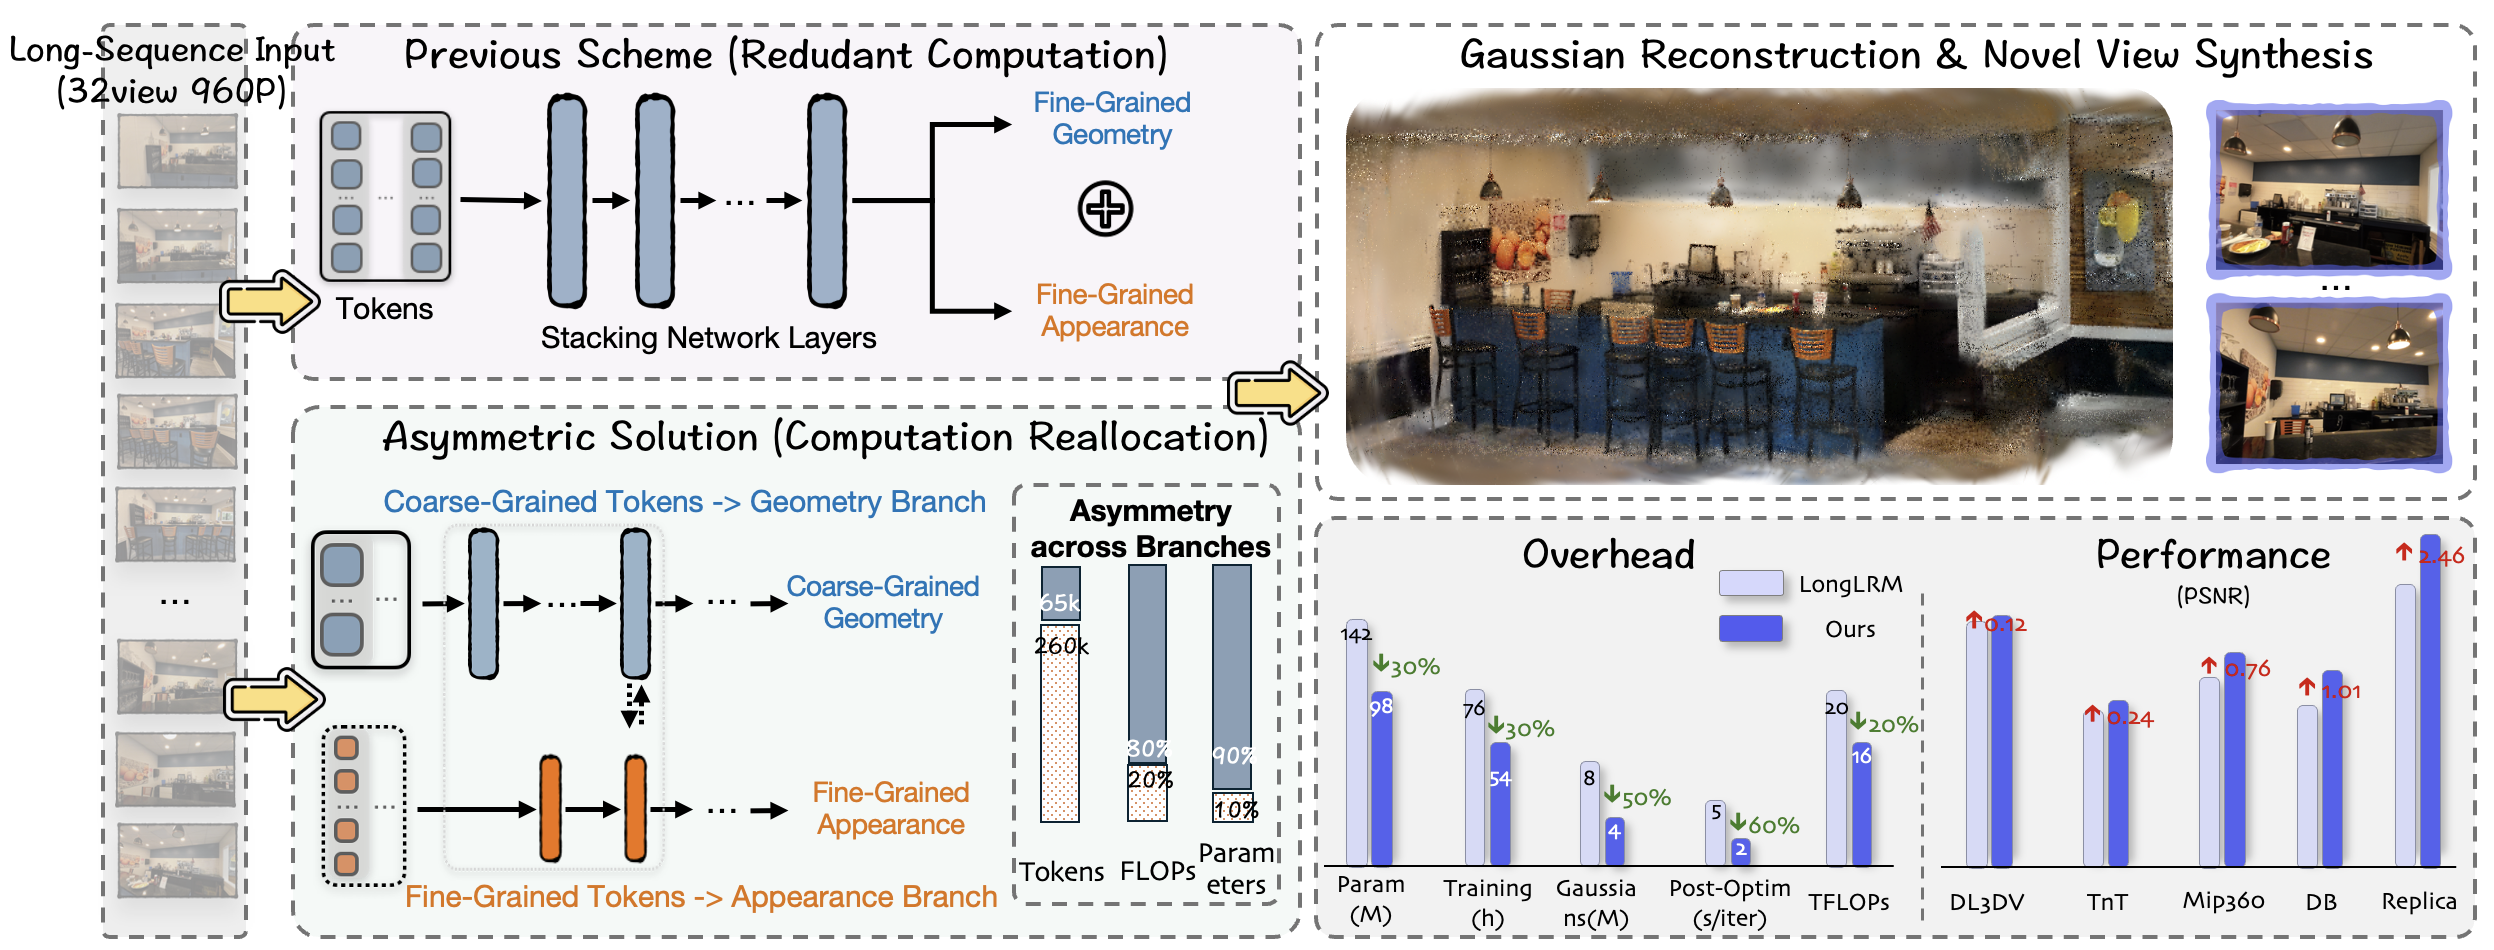
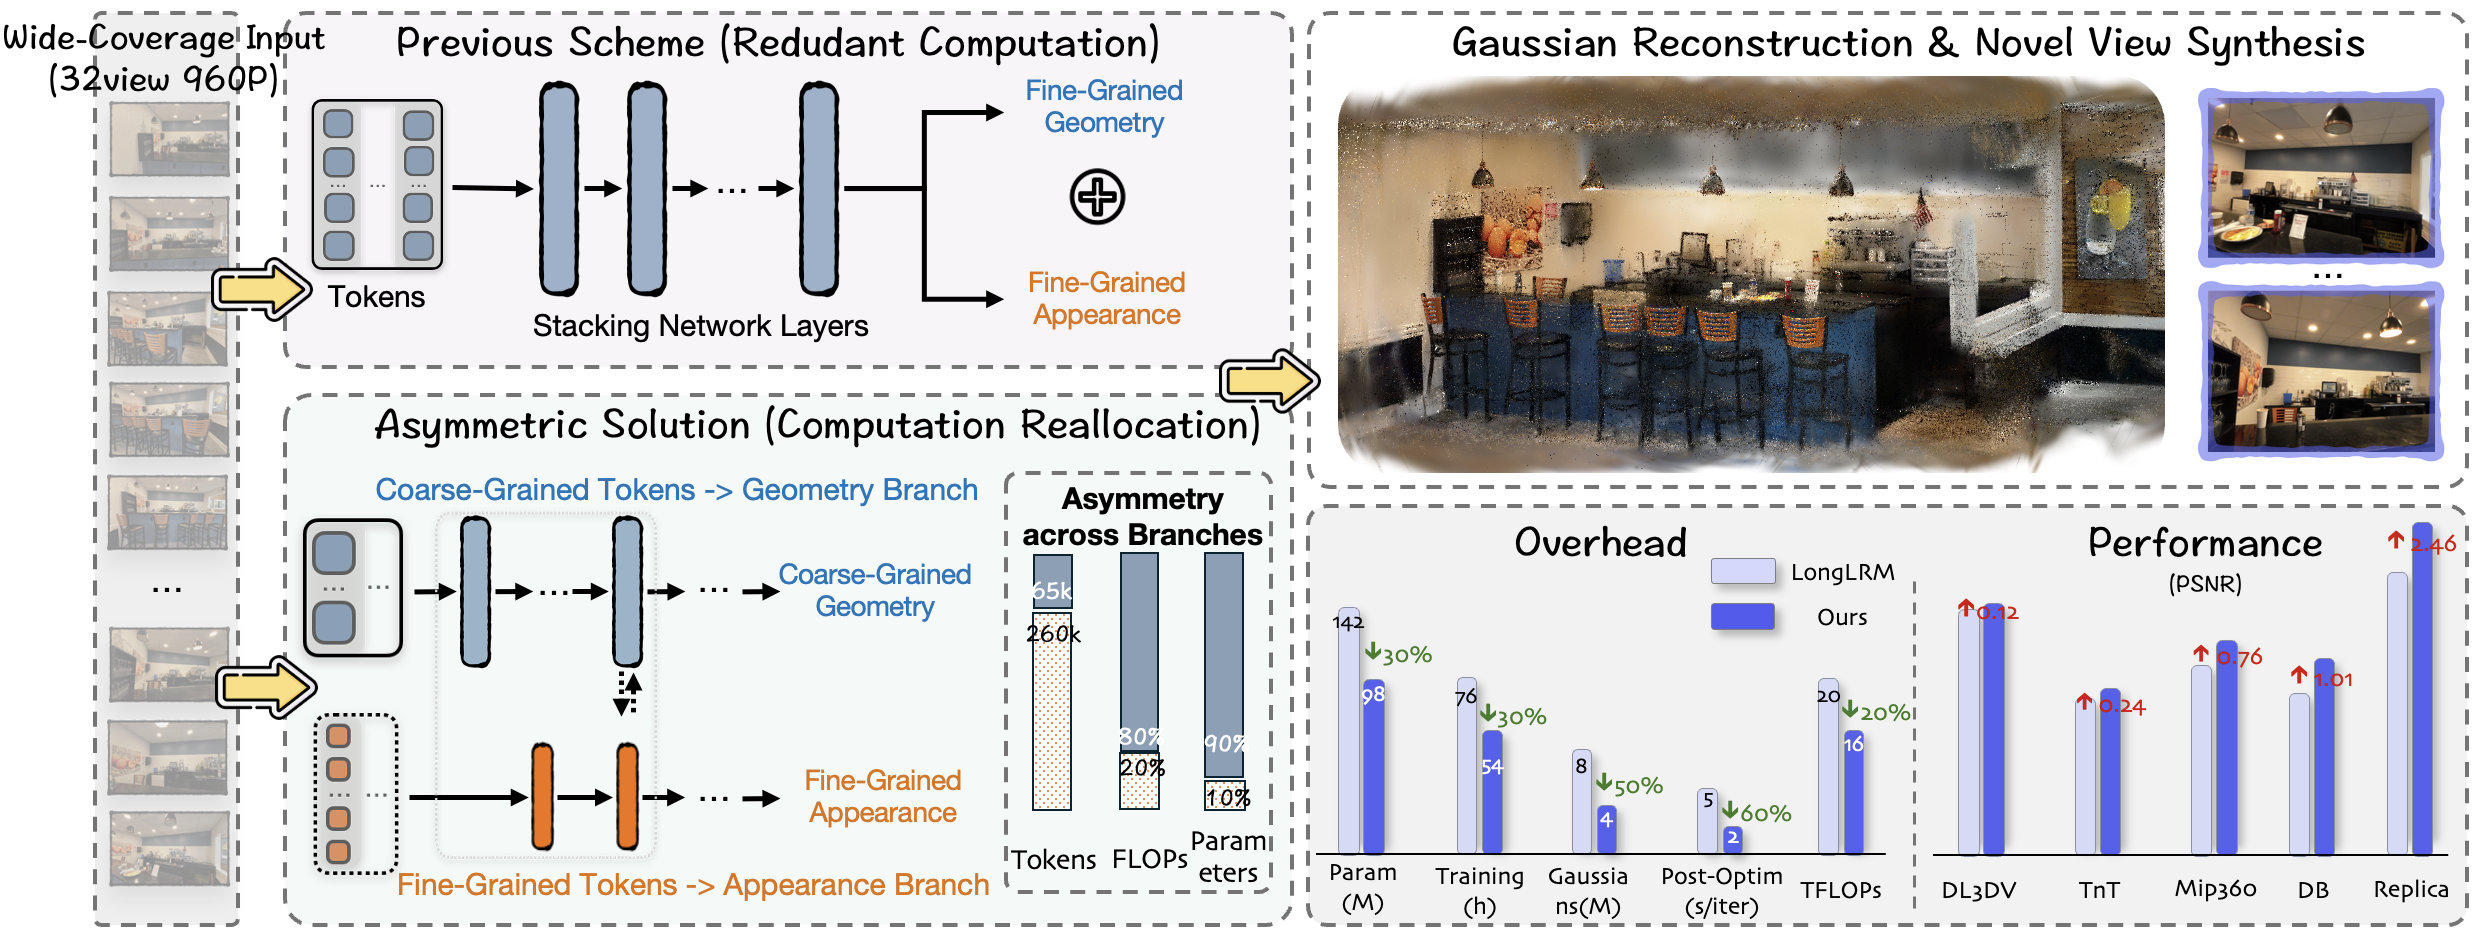
update

diff --git a/asysplat/index.html b/asysplat/index.html
@@ -2,8 +2,8 @@
 <html lang="en">
 <head>
   <meta charset="utf-8">
-  <meta name="description" content="AsySplat: Efficient Asymmetric 3D Gaussian Splatting for Long-Sequence Scene Modeling">
-  <meta name="keywords" content="AsySplat, 3D Gaussian Splatting, Long-Sequence Reconstruction">
+  <meta name="description" content="AsySplat: Efficient Asymmetric 3D Gaussian Splatting for Wide-Coverage Scene Modeling">
+  <meta name="keywords" content="AsySplat, 3D Gaussian Splatting, Wide-Coverage Reconstruction">
   <meta name="viewport" content="width=device-width, initial-scale=1">
   <title>AsySplat</title>
 
@@ -1005,7 +1005,7 @@
   <header class="hero">
     <div class="hero-content">
       <h1>AsySplat</h1>
-      <p class="subtitle">Efficient Asymmetric 3D Gaussian Splatting for Long-Sequence Scene Modeling</p>
+      <p class="subtitle">Efficient Asymmetric 3D Gaussian Splatting for Wide-Coverage Scene Modeling</p>
       <div class="authors">
         <a class="author-name" href="https://zhongyingji.github.io/" target="_blank" rel="noopener noreferrer">Yingji Zhong<sup>1</sup></a>,
         <a class="author-name" href="https://daveredrum.github.io/" target="_blank" rel="noopener noreferrer">Dave Zhenyu Chen<sup>2</sup></a>,
@@ -1084,7 +1084,7 @@
     <div class="container">
       <h2>Abstract</h2>
       <p class="abstract-text">
-        AsySplat is an efficient asymmetric 3D Gaussian Splatting framework for <strong>long-sequence novel view synthesis</strong>. Recent generalizable 3DGS models advance long-sequence NVS, but often incur <strong>substantial redundant computation</strong>. We identify two key observations: <strong>high-precision geometry is not strictly required</strong> for high-quality NVS, and <strong>appearance learning is generally easier than geometry recovery</strong>. Motivated by these insights, AsySplat decouples geometry and appearance modeling: a geometry branch processes <strong>coarse-grained tokens</strong> with most parameters for multi-view reconstruction, while an appearance branch operates on <strong>fine-grained tokens</strong> with significantly fewer parameters to preserve visual details. The two branches interact through <strong>bilateral connections</strong>, enabling mutual guidance and more judicious computation allocation. On 32-view 960P inputs, AsySplat surpasses previous generalizable models with <strong>markedly fewer parameters</strong> and reduced training/inference overhead.
+        AsySplat is an efficient asymmetric 3D Gaussian Splatting framework for <strong>wide-coverage novel view synthesis</strong>. Recent generalizable 3DGS models advance wide-coverage NVS, but often incur <strong>substantial redundant computation</strong>. We identify two key observations: <strong>high-precision geometry is not strictly required</strong> for high-quality NVS, and <strong>appearance learning is generally easier than geometry recovery</strong>. Motivated by these insights, AsySplat decouples geometry and appearance modeling: a geometry branch processes <strong>coarse-grained tokens</strong> with most parameters for multi-view reconstruction, while an appearance branch operates on <strong>fine-grained tokens</strong> with significantly fewer parameters to preserve visual details. The two branches interact through <strong>bilateral connections</strong>, enabling mutual guidance and more judicious computation allocation. On 32-view 960P inputs, AsySplat surpasses previous generalizable models with <strong>markedly fewer parameters</strong> and reduced training/inference overhead.
       </p>
     </div>
   </section>